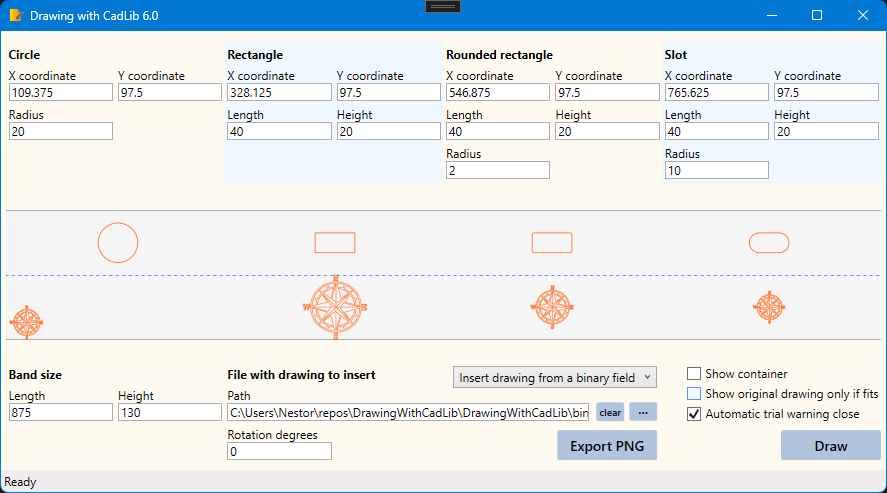
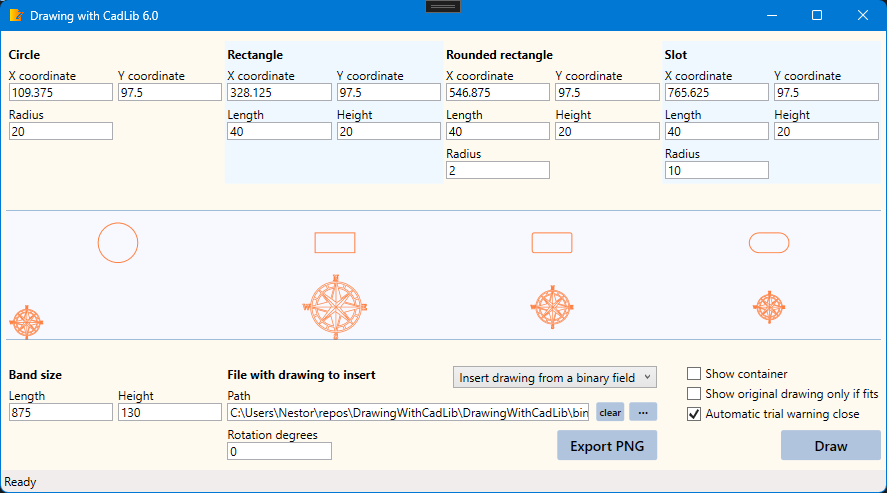
Updated README.md

diff --git a/DrawingWithCadLib/MainWindow.xaml b/DrawingWithCadLib/MainWindow.xaml
@@ -358,11 +358,11 @@
                 Grid.ColumnSpan="4"
                 Margin="0,30,0,20"
                 VerticalAlignment="Stretch"
-                Background="WhiteSmoke">
+                Background="GhostWhite">
                 <Grid.Resources>
                     <Style x:Key="BandLayoutBorder" TargetType="Border">
                         <!--<Setter Property="Background" Value="WhiteSmoke" />-->
-                        <Setter Property="BorderBrush" Value="DimGray" />
+                        <Setter Property="BorderBrush" Value="SteelBlue" />
                         <Setter Property="MinHeight" Value="65" />
                         <Setter Property="SnapsToDevicePixels" Value="True" />
                         <Setter Property="VerticalAlignment" Value="Stretch" />
@@ -387,15 +387,6 @@
                     Margin="0"
                     BorderThickness="0,0,0,0.5"
                     Style="{StaticResource BandLayoutBorder}" />
-                <Rectangle
-                    Grid.Row="1"
-                    Height="1"
-                    Margin="0"
-                    VerticalAlignment="Top"
-                    SnapsToDevicePixels="True"
-                    Stroke="RoyalBlue"
-                    StrokeDashArray="5 8"
-                    StrokeThickness="0,0,0,0.5" />
             </Grid>
             <!--#endregion-->
 

diff --git a/README.md b/README.md
@@ -2,7 +2,7 @@
 
 ## Description
 
-A basic learning about [WoutWare CadLib](https://www.woutware.com/) version 6.0.
+A basic learning about drawing on the screen with [WoutWare CadLib](https://www.woutware.com/) version 6.0.
 
 This example code just draws some basic shapes on the screen and insert pre-existent drawings, useful as a proof of concept. 
 
